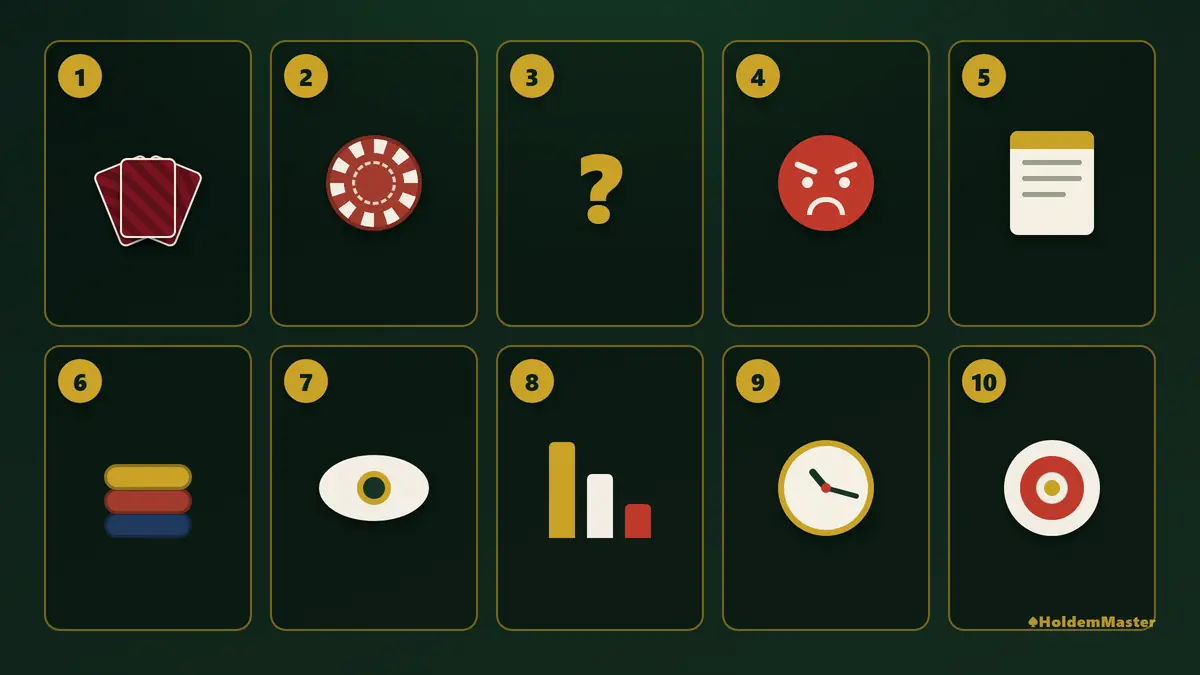
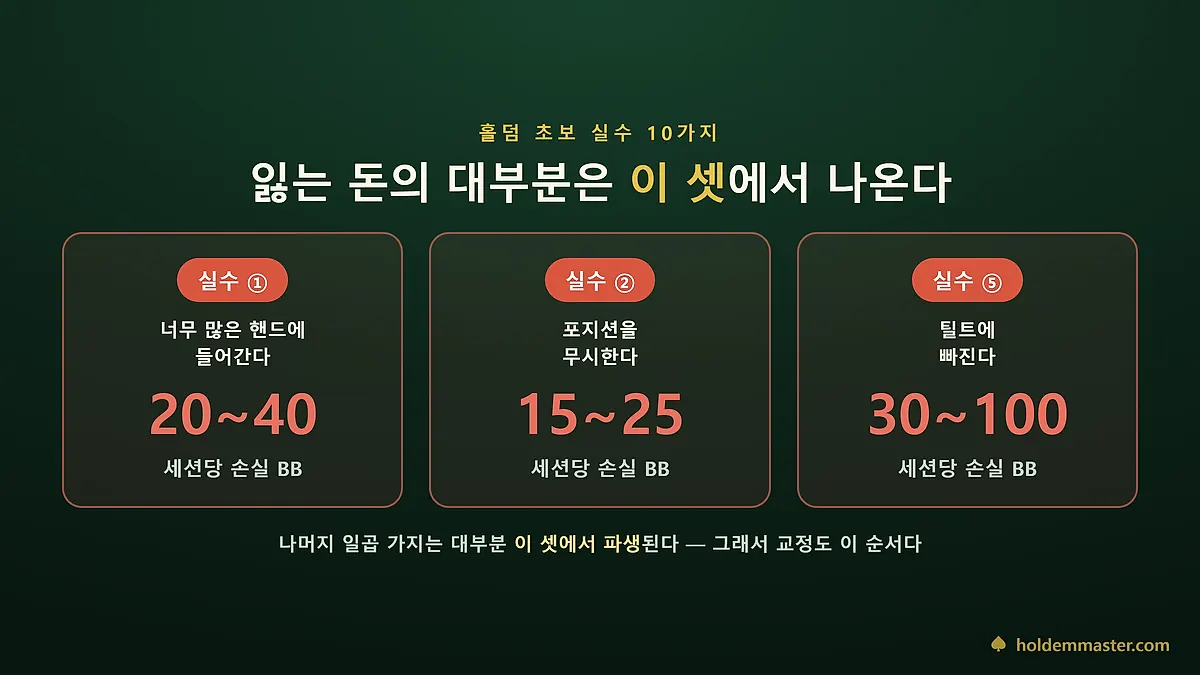
fix(content): holdem-beginner-mistakes-10 — 출처 제거 + 이미지 전면 재제작
## 출처 섹션 삭제
두 항목 다 1차 출처가 아니라 내 계산 과정 설명이었다(§14-A-4: 전략 글에는 출처를 억지로
만들지 않는다). "손실 수치는 어림값" 고지는 본문 ⚡ 블록에 이미 있어 정보 손실 없음.

## 이미지 15장 → 11장, 9장 신규 제작 (HTML+Playwright, §9-1)

★사실 오류 교정
- pot-odds: A♥A♠(포켓 에이스)에 "에퀴티 19% → 콜 불가"라고 적혀 있었다. 본문은 플러시
  드로우 9아웃의 19%인데 그림은 AA를 폴드하라고 가르치고 있었다. 본문 예시 그대로
  A♠K♠ / Q♠8♠3♦ · 9÷47=19% vs 8,000÷26,000=31% → 폴드로 재제작.
- summary-table: 번호가 본문과 어긋났다(본문 ③=팟오즈인데 이미지 3=블러핑). 본문 하단에
  같은 표가 이미 있어 이미지는 삭제.
- hand-read: 본문과 무관한 KQ 예시 → 본문 실전 예시 그대로(A♦2♥ 트리플 A vs T♥9♦
  브로드웨이). §13 검산 완료 — 7장 → 베스트5 · 카드 중복 0.

★품질·정보량
- hero: 라벨 없는 아이콘 10개(정보 0) → ①②⑤ 손실 BB 카드. 본문 중복 삽입도 해소.
- loss-chart(신규): 본문 손실 영향도 표를 손실 큰 순 가로 막대로. H2 질문에 직답.
- loose-call: 기준 없는 막대 4개 → 초보 50~70% vs 레귤러 20~30% 대비.
- calling-station / stack-bet: 오프브랜드 AI 만화·4:3·제목 중복·본문과 무관한 숫자
  (TOTAL POT 50 등) → 온브랜드 1200×675로. calling-station은 "레이즈=이기는 길 2개,
  콜=1개" 본문 논리를, stack-bet은 SPR 1.5 계산을 그대로.
- bluff: 의미 없는 빨간 사각형 "100%" → 성공 3조건 AND 구조.
- action-plan: 전부 영어 라벨 → 한국어 + 기간·목표 수치.
- korea-pub: 펠트에 깨진 글자 "TEIDAS SEN"·번진 보드·820×448 → 삭제(표가 이미 설명).
- intro-card / reveal / record: 정보 없는 장식 → 삭제.

이미지 합계 300KB(15장) → 312.6KB(11장) · 전 파일 60KB 이하 · 1200×675 · 렌더 결과
11장 전부 Read로 육안 검수(철자·수치·카드 유효성).

audit:hard 🔴 0건 · 미판정 카드 문단 0개 · build 611 · sitemap 56편

diff --git a/lib/posts.ts b/lib/posts.ts
@@ -4491,11 +4491,11 @@ A. 세 숫자만 외워두세요. 팟의 **100%면 33.3%**, **150%면 37.5%**, *
  tldr: "초보 손실의 대부분은 세 가지에서 나온다 — 너무 많은 핸드에 들어가는 것(루즈 콜), 포지션 무시, 그리고 틸트. 나머지 일곱 가지는 이 셋에서 파생되는 경우가 많다. 실수는 운이 아니라 반복되는 패턴이라 하나씩 교정할 수 있고, 특히 앞의 세 가지만 잡아도 세션 결과가 눈에 띄게 달라진다.",
  category: "초보 가이드",
  date: "2026-03-31",
- updated: "2026-07-30",
+ updated: "2026-08-03",
  readTime: "18분",
  emoji: "🩹",
  image: '/images/beginner-mistakes-hero.webp',
- imageAlt: '홀덤 초보 실수 10가지 — 루즈콜·포지션 무시·틸트 교정법',
+ imageAlt: '손실이 가장 큰 초보 실수 세 가지를 세션당 손실 BB와 함께 나란히 보여주는 카드 — 너무 많은 핸드 20~40BB, 포지션 무시 15~25BB, 틸트 30~100BB',
  keepImagesInBody: true,
  tags: ["홀덤 초보 실수", "홀덤 초보 가이드", "홀덤 루즈 콜", "홀덤 포지션", "홀덤 틸트", "홀덤 팟오즈", "홀덤펍 실수", "홀덤 초보 탈출"],
  content: `
@@ -4513,8 +4513,6 @@ A. 세 숫자만 외워두세요. 팟의 **100%면 33.3%**, **150%면 37.5%**, *
 > 그래서 순서가 중요합니다. **열 가지를 동시에 고치려 하지 말고 ①②⑤부터** 잡으세요. 실수는 운과 달리 교정 가능하고, 교정 순서만 맞아도 체감이 빠릅니다.
 
 ---
-
-![홀덤 초보 탈출 Q&A — 왜 맨날 돈 잃을까 핵심 분석 카드](/images/beginner-mistakes-intro-card.webp "홀덤 초보 실수는 운 No! 패턴 — 루즈 콜·포지션 무시·틸트 3가지만 잡아도 세션 손실 70% 감소")
 
 ### 이 글 핵심 요약
 
@@ -4545,13 +4543,13 @@ A. 세 숫자만 외워두세요. 팟의 **100%면 33.3%**, **150%면 37.5%**, *
 
 > ⚡ **세션당 손실 추정은 어림값입니다**: 9인 테이블·2시간 세션·100BB 바이인을 가정한 추정치이고, 실제 손실은 블라인드 레벨·상대 수준·테이블 성향에 따라 크게 달라집니다. 절대 수치보다 **항목 간 상대적 크기**(어느 실수가 더 비싼가)를 참고용으로 보세요.
 
-![홀덤 초보 실수 10가지 인포그래픽](/images/beginner-mistakes-hero.webp "홀덤 초보가 가장 많이 저지르는 실수 10가지 — 최우선 교정 항목은 루즈 핸드 선택, 포지션 무시, 틸트")
+![실수 10가지를 세션당 손실 추정치 순으로 정렬한 가로 막대 차트 — 틸트 30~100BB가 가장 길고 블러프 남용 5~10BB가 가장 짧다](/images/beginner-mistakes-loss-chart.webp "위 표를 손실이 큰 순서로 다시 세운 것 — ⑤ 틸트, ① 너무 많은 핸드, ② 포지션 무시가 위에서 셋을 차지한다")
 
 ---
 
 ## 실수 ① — 너무 많은 핸드에 들어간다
 
-![홀덤 초보가 너무 많은 핸드에 참여하는 상황](/images/beginner-mistakes-loose-call.webp "실수 ① 너무 많은 핸드 참여: 초보 플레이어가 너무 많은 핸드에 들어가서 VPIP가 70%를 넘는 상황. 타이트한 핸드 선택이 해결책이다")
+![초보 VPIP 50~70%와 수익 내는 레귤러 VPIP 20~30%를 좌우로 나란히 놓고 비교한 카드](/images/beginner-mistakes-loose-call.webp "같은 열 판에서 초보는 대여섯 판, 레귤러는 두세 판만 들어간다 — 그 차이가 프리플랍에서 세션당 20~40BB를 만든다")
 
 홀덤을 처음 배우면 "어떤 패가 좋은 패인지"는 알아도 **"어떤 패에서 들어가야 하는지"는 모릅니다.**
 
@@ -4578,7 +4576,7 @@ A. 세 숫자만 외워두세요. 팟의 **100%면 33.3%**, **150%면 37.5%**, *
 
 ## 실수 ② — 포지션을 무시한다
 
-![홀덤 포지션 차이를 보여주는 포커 테이블](/images/beginner-mistakes-position.webp "실수 ② 포지션 무시: 조기 포지션(SB)은 불리하고 딜러 버튼(D)은 유리하다. 포지션에 따라 같은 핸드도 다르게 플레이해야 한다")
+![오벌 테이블에 UTG·MP·HJ·CO·BTN·SB·BB를 배치하고 UTG의 루즈 레이즈에는 빨간 X를, 딜러 버튼에는 초록 체크를 표시한 좌석 다이어그램](/images/beginner-mistakes-position.webp "가장 먼저 말해야 하는 UTG에서 넓게 들어가는 것이 가장 위험하고, 마지막에 말하는 버튼이 가장 유리하다")
 
 "이 패면 어디서든 들어가도 되지 않나요?"
 
@@ -4601,7 +4599,7 @@ A. 세 숫자만 외워두세요. 팟의 **100%면 33.3%**, **150%면 37.5%**, *
 
 ## 실수 ③ — 팟 오즈를 무시하고 드로우를 추격한다
 
-![팟 오즈와 드로우 확률 비교 예시](/images/beginner-mistakes-pot-odds.webp "실수 ③ 드로우 추격과 팟 오즈 무시: 드로우 확률(20%)이 팟 오즈보다 낮으면 콜은 손실이다. 수학적 계산으로 베팅 결정해야 한다")
+![A♠K♠를 들고 플랍 Q♠8♠3♦에서 스페이드 4장이 모인 9아웃 플러시 드로우와, 필요 승률 31% 대 완성 확률 19%를 대조한 계산 카드](/images/beginner-mistakes-pot-odds.webp "본문 예시를 그대로 그린 것 — 팟 10,000에 상대가 8,000을 베팅하면 필요 승률은 31%인데 턴 한 장 완성 확률은 19%라 폴드가 정답이다")
 
 플러시 드로우가 왔어요. 콜해야 할까요, 폴드해야 할까요?
 
@@ -4633,7 +4631,7 @@ A. 세 숫자만 외워두세요. 팟의 **100%면 33.3%**, **150%면 37.5%**, *
 
 ## 실수 ④ — 콜을 너무 많이 한다 (콜링 스테이션)
 
-![콜링 스테이션 패시브 플레이 상황](/images/beginner-mistakes-calling-station.webp "실수 ④ 콜링 스테이션: 항상 콜만 하는 패시브 플레이어. 레이즈와 폴드를 균형 있게 사용하지 않으면 장기적으로 손실이 쌓인다")
+![레이즈가 이기는 두 가지 길(상대 폴드·내 핸드가 더 강함)과 콜이 이기는 한 가지 길을 좌우로 비교한 카드](/images/beginner-mistakes-calling-station.webp "레이즈는 상대가 폴드해도 이기지만 콜은 내 핸드가 더 강할 때만 이긴다 — 콜이 가장 약한 액션인 이유")
 
 "일단 콜하고 보자"는 생각, 많이 하시죠?
 
@@ -4677,7 +4675,7 @@ AA로 들어갔는데 2-7이 투페어를 만들었어요.
 
 ## 실수 ⑥ — 블러프를 너무 자주 한다
 
-![과도한 블러핑으로 패턴이 노출되는 홀덤 상황](/images/beginner-mistakes-bluff.webp "실수 ⑥ 과도한 블러핑: 블러핑 빈도가 너무 높으면 상대가 패턴을 학습한다. 밸류벳 비율을 높이고 블러프는 조건이 맞을 때만 사용해야 한다")
+![블러프가 성공하려면 동시에 충족돼야 하는 세 조건을 더하기 기호로 이은 카드 — 상대가 미들 핸드, 베팅 스토리 일관, 보드 텍스처 적합](/images/beginner-mistakes-bluff.webp "세 조건은 OR가 아니라 AND다 — 하나라도 어긋나면 그 블러프는 칩만 버린다")
 
 "블러핑은 포커의 꽃이잖아요."
 
@@ -4701,8 +4699,6 @@ AA로 들어갔는데 2-7이 투페어를 만들었어요.
 
 ## 실수 ⑦ — 핸드를 불필요하게 보여준다
 
-![블러프 성공 후 불필요하게 핸드를 공개하는 장면](/images/beginner-mistakes-reveal.webp "실수 ⑦ 불필요한 핸드 노출: 핸드를 공개하면 상대에게 무료로 정보를 제공한다. 블러프 성공 후 자랑하듯 보여주면 상대가 내 패턴을 학습한다")
-
 배드 비트를 당했거나 블러프가 성공했을 때, "봐라!" 하고 핸드를 공개하는 경우가 있어요.
 
 이건 **상대에게 공짜 정보를 주는 행동**입니다. 홀덤에서 정보는 곧 칩이에요 — 공짜로 줄 이유가 없습니다. 특히 홀덤펍에서는 단골 테이블에서 같은 상대를 반복해서 만나기 때문에, 핸드를 한 번 노출하면 그 정보가 남은 세션 내내 당신을 따라다닙니다.
@@ -4722,7 +4718,7 @@ AA로 들어갔는데 2-7이 투페어를 만들었어요.
 
 ## 실수 ⑧ — 스택 대비 베팅 크기를 고려하지 않는다
 
-![스택 대비 잘못된 베팅 크기를 선택하는 상황](/images/beginner-mistakes-stack-bet.webp "실수 ⑧ 스택 대비 베팅 크기 오류: 스택이 15BB 밖에 없는데 작은 베팅을 반복하면 SPR이 나빠진다. 스택에 따라 베팅 전략을 단순화해야 한다")
+![팟 10,000에 스택 15,000이면 SPR이 1.5라는 계산과, SPR 1~2는 올인 아니면 폴드 · SPR 10+는 나눠 치기가 가능하다는 판단을 나란히 놓은 카드](/images/beginner-mistakes-stack-bet.webp "본문 상황의 SPR을 실제로 계산한 것 — 여기서 7,000을 베팅하면 8,000만 남아 올인도 폴드도 아닌 자리가 된다")
 
 팟이 10,000원인데 스택이 15,000원밖에 없는 상황. 이때 7,000원을 베팅하는 건 합리적일까요?
 
@@ -4741,7 +4737,7 @@ AA로 들어갔는데 2-7이 투페어를 만들었어요.
 
 ## 실수 ⑨ — 상대 핸드를 고려하지 않는다
 
-![상대 핸드 범위를 무시한 채 플레이하는 상황](/images/beginner-mistakes-hand-read.webp "실수 ⑨ 상대의 핸드 범위 무시: 내 강한 핸드라도 보드에서 더 강한 핸드가 가능하면 조심해야 한다. 상대 핸드 범위를 항상 고려하며 플레이해야 한다")
+![보드 A♠A♥K♦Q♣J♠에서 내 A♦2♥는 트리플 에이스지만 상대 T♥9♦은 브로드웨이 스트레이트라 지는 상황을 좌우로 비교한 카드](/images/beginner-mistakes-hand-read.webp "아래 실전 예시를 그대로 그린 것 — 보드에 A·K·Q·J가 깔리면 상대는 T 한 장만으로 내 트리플을 넘는다")
 
 "나 투페어야, 무조건 강해." 이런 생각으로만 플레이하면 안 됩니다.
 
@@ -4762,8 +4758,6 @@ AA로 들어갔는데 2-7이 투페어를 만들었어요.
 ---
 
 ## 실수 ⑩ — 게임 기록을 남기지 않는다
-
-![홀덤 게임 기록 부재 상황](/images/beginner-mistakes-record.webp "실수 ⑩ 게임 기록 부재: 기록이 없으면 어떤 실수를 반복하는지 알 수 없다. 날짜, 시간, 시작 스택, 결과만 기록해도 패턴이 보이기 시작한다")
 
 마지막 실수는 눈에 잘 띄지 않지만 장기적으로 가장 치명적이에요.
 
@@ -4787,8 +4781,6 @@ AA로 들어갔는데 2-7이 투페어를 만들었어요.
 
 ## 홀덤펍에서는 무엇을 더 조심해야 하나요?
 
-![홀덤펍 라이브 실전 초보 장면](/images/beginner-mistakes-korea-pub.webp "홀덤펍 라이브 게임에서는 온라인과 다른 추가 실수 요소가 있다. 텔 노출, 레이크 부담, 시간 압박이 초보 플레이어에게 특히 치명적이다")
-
 온라인 홀덤과 달리 **라이브 홀덤펍에는 추가 변수**가 있습니다.
 
 | 라이브 홀덤펍 특화 실수 | 왜 더 위험한가 | 교정법 |
@@ -4805,7 +4797,7 @@ AA로 들어갔는데 2-7이 투페어를 만들었어요.
 
 ## 어떤 순서로 교정해야 하나요?
 
-![홀덤 초보 실수 교정 단계별 로드맵](/images/beginner-mistakes-action-plan.webp "홀덤 초보 교정 로드맵: 1단계 타이트한 핸드 선택(1~2주), 2단계 포지션별 오픈 레인지 암기(3~4주), 3단계 스톱로스 규칙으로 틸트 방지(장기). 이 순서로 진행하면 가장 빠르게 실력이 향상됩니다")
+![교정 3단계를 기간과 목표 수치까지 붙여 화살표로 이은 로드맵 — 1~2주차 VPIP 30% 이하, 3~4주차 UTG 10~15%·BTN 30~40%, 2달 이상 틸트 방지 시스템](/images/beginner-mistakes-action-plan.webp "아래 3단계를 그대로 그린 것 — 각 단계마다 기간과 도달 목표를 숫자로 못 박아 두면 지키기 쉽다")
 
 모든 실수를 한 번에 고치려 하면 아무것도 고치지 못합니다. 다음 순서대로 집중하세요.
 
@@ -4816,8 +4808,6 @@ AA로 들어갔는데 2-7이 투페어를 만들었어요.
 ---
 
 ## 결국 어느 실수가 가장 비싼가요?
-
-![홀덤 초보 실수 10가지 손실 영향도 종합표](/images/beginner-mistakes-summary-table.webp "10가지 실수 중 루즈 핸드 선택, 포지션 무시, 틸트는 손실 영향도 5점 만점으로 최우선 교정 대상이다. 교정 난이도가 낮은 것부터 시작하는 것이 효율적이다")
 
 | 실수 | 손실 영향도 | 교정 난이도 | 우선순위 |
 |------|----------|----------|--------|
@@ -4966,15 +4956,6 @@ A. **100판 단위 기록 분석**이 가장 정확합니다.
 - 세션당 손실 편차 줄어듦 → 틸트 통제 성공
 
 > 기록이 없으면 개선 여부 확인 불가 — ==실수 교정== 은 단기 결과가 아닌 **장기 수익의 기반**입니다.
-
----
-
----
-
-## 출처
-
-- 팟오즈·드로우 확률은 계산 결과입니다 — 플러시 드로우 9아웃 기준 턴 한 장 완성 확률 9/47 ≈ **19%**, 리버까지 두 장이면 1 − (38/47 × 37/46) ≈ **35%**. 본문 예시(팟 10,000 + 상대 벳 8,000 → 콜 후 팟 26,000, 필요 승률 8,000÷26,000 ≈ 31%)도 같은 방식으로 검산했습니다.
-- **VPIP·오픈 레인지·세션 손실 수치는 일반적으로 통용되는 어림값**이며 게임 종류(6맥스/풀링)·스테이크·상대 성향에 따라 달라집니다. 절대값보다 **방향(넓게/좁게)과 항목 간 상대 크기**로 활용하세요.
 
 ---
 
